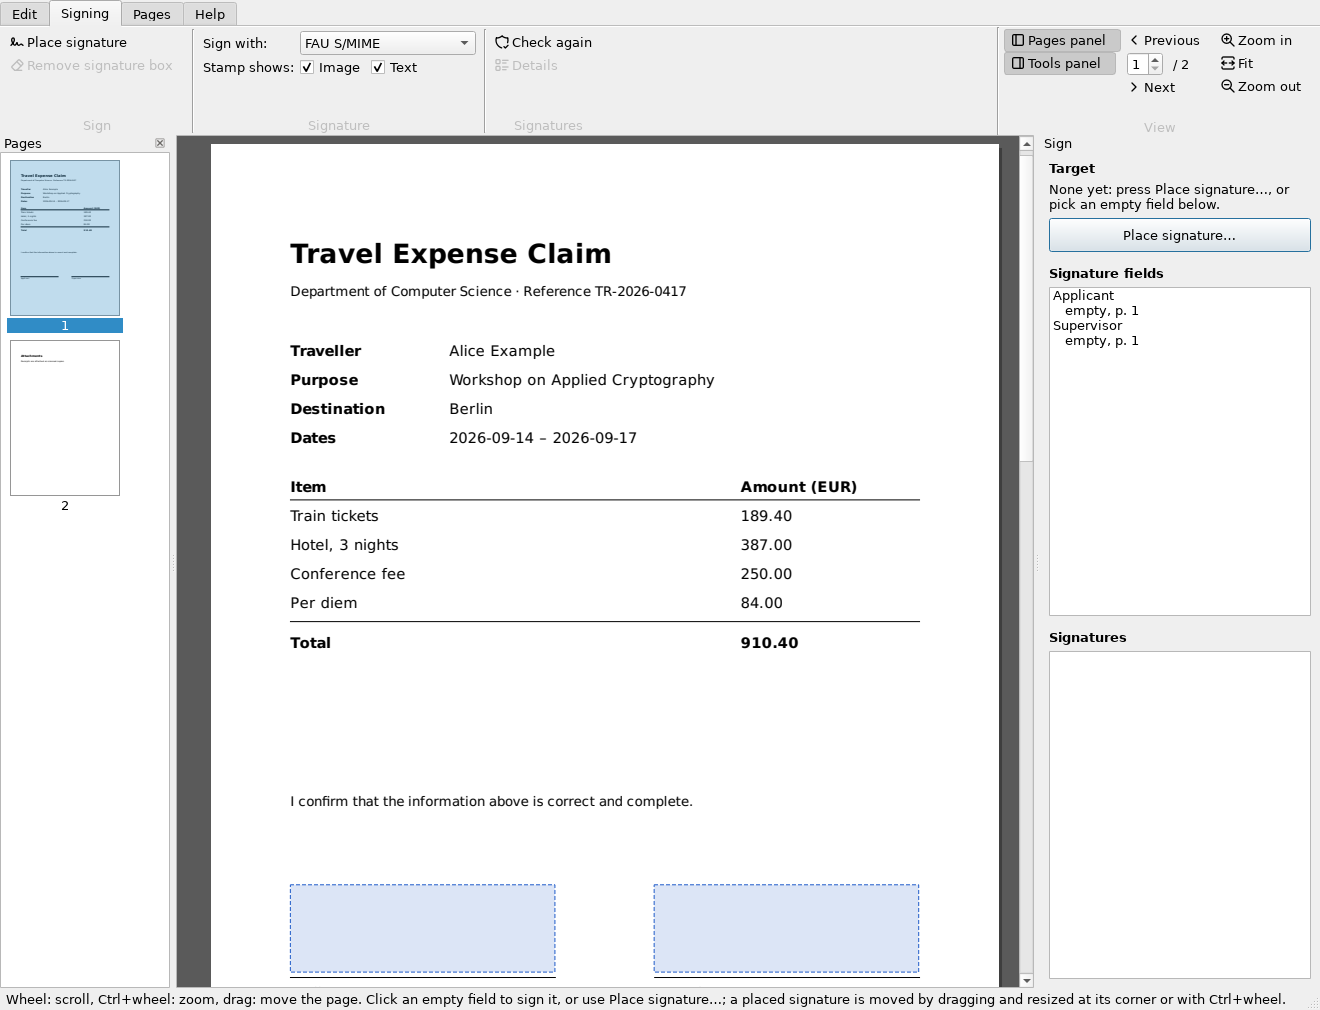
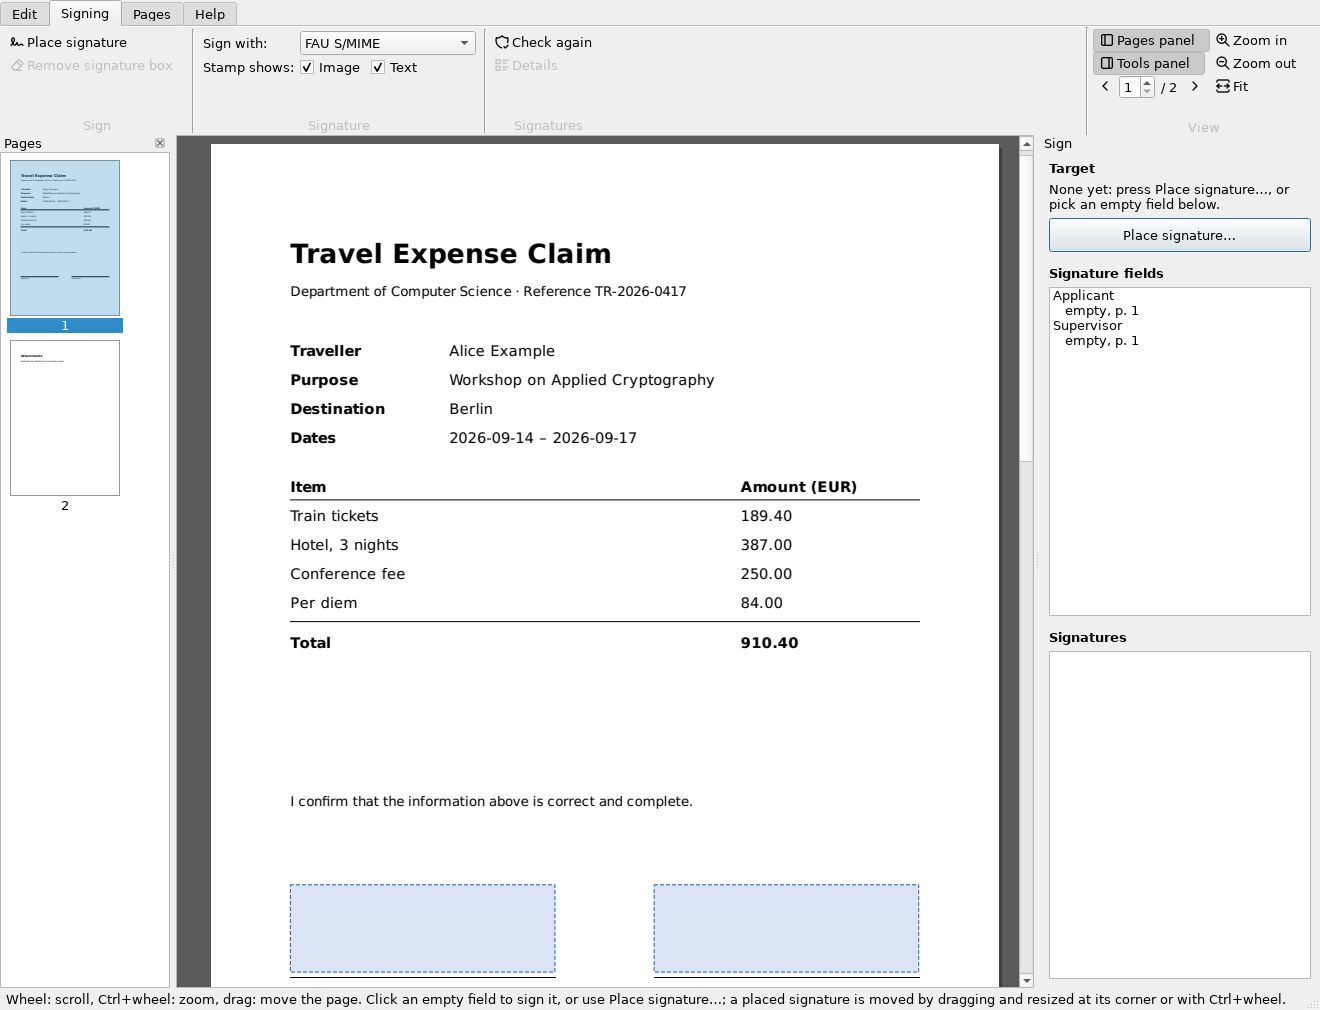
Ribbon View group: ‹ page › in one row, zoom in/out before Fit
Previous/next are arrow buttons (named in their tooltips) beside the page
number, in one row under the two panel toggles; the zoom column is Zoom
in, Zoom out, Fit. The View group is two columns now.

Changed region(s): [[0.7455, 0.0307, 0.9939, 0.0921]]

diff --git a/src/slim_pdf/gui/app.py b/src/slim_pdf/gui/app.py
@@ -8,7 +8,7 @@ import sys
 from importlib import metadata
 from pathlib import Path
 
-from PySide6.QtCore import QLibraryInfo, QLocale, Qt, QTimer, QTranslator, QUrl, qVersion
+from PySide6.QtCore import QLibraryInfo, QLocale, QSize, Qt, QTimer, QTranslator, QUrl, qVersion
 from PySide6.QtGui import (
     QAction,
     QColor,
@@ -38,6 +38,7 @@ from PySide6.QtWidgets import (
     QPushButton,
     QSpinBox,
     QStackedWidget,
+    QToolButton,
     QVBoxLayout,
     QWidget,
 )
@@ -526,15 +527,25 @@ class MainWindow(QMainWindow):
                                           "on Edit, signing on Signing)"))
         self.tools_panel_act.setChecked(state.flag("tools_panel"))
         self.tools_panel_act.toggled.connect(self._tools_panel_toggled)
-        spin = QWidget()  # the page number box with " / count"
-        row = QHBoxLayout(spin)
-        row.setContentsMargins(4, 0, 4, 0)
-        row.addWidget(self.page_spin)
-        row.addWidget(self.page_count)
+        # ‹ [page] / count ›: one row, the arrows without text (tooltips name them)
+        pager = QWidget()
+        row = QHBoxLayout(pager)
+        row.setContentsMargins(0, 0, 0, 0)
+        row.setSpacing(2)
+        for item in (self.prev_act, self.page_spin, self.page_count, self.next_act):
+            if isinstance(item, QAction):
+                btn = QToolButton()
+                btn.setDefaultAction(item)
+                btn.setAutoRaise(True)
+                btn.setFocusPolicy(Qt.TabFocus)
+                btn.setToolButtonStyle(Qt.ToolButtonIconOnly)
+                btn.setIconSize(QSize(ribbon.SMALL_ICON, ribbon.SMALL_ICON))
+                row.addWidget(btn)
+            else:
+                row.addWidget(item)
         rb.set_view_controls(_("View"), [
-            [panel, self.tools_panel_act],  # small, one above the other: room for the pages
-            [self.prev_act, spin, self.next_act],
-            [self.zoom_in_act, self.fit_act, self.zoom_out_act],
+            [panel, self.tools_panel_act, pager],
+            [self.zoom_in_act, self.zoom_out_act, self.fit_act],
         ])
         rb.refit()
         rb.currentChanged.connect(self._ribbon_tab_changed)

diff --git a/tests/test_gui.py b/tests/test_gui.py
@@ -1551,7 +1551,7 @@ def test_ribbon_tabs_and_about(window, monkeypatch):
     view = [b.defaultAction() for b in rb.view_controls.findChildren(QtWidgets.QToolButton)]
     assert view == [window.pages_dock.toggleViewAction(), window.tools_panel_act,
                     window.prev_act, window.next_act,
-                    window.zoom_in_act, window.fit_act, window.zoom_out_act]
+                    window.zoom_in_act, window.zoom_out_act, window.fit_act]
     assert rb.view_controls.title.text() == "View"
     assert rb.view_controls.isAncestorOf(window.page_spin)
     for i in range(rb.count()):

diff --git a/docs/gui.md b/docs/gui.md
@@ -38,9 +38,9 @@ guide show the English version.
   * *View*, a group at the ribbon's right end, the same on every tab:
     **Pages panel** (show or hide the thumbnails on the left), **Tools
     panel** (show or hide the panel on the right: the form, signing), each on
-    its own and remembered for the next start; **Previous**, the page
-    number, **Next** (`PgUp`/`PgDown`, or type the number); **Zoom in**,
-    **Fit** (fit width), **Zoom out** (`Ctrl +`/`Ctrl -`).
+    its own and remembered for the next start; under them ‹ the page
+    number › (previous / next page: `PgUp`/`PgDown`, or type the number);
+    **Zoom in**, **Zoom out** (`Ctrl +`/`Ctrl -`), **Fit** (fit width).
 
   **Open…** starts in the folder of the last file you opened, also after
   a restart (remembered in `gui.json` in the user state folder, e.g.
